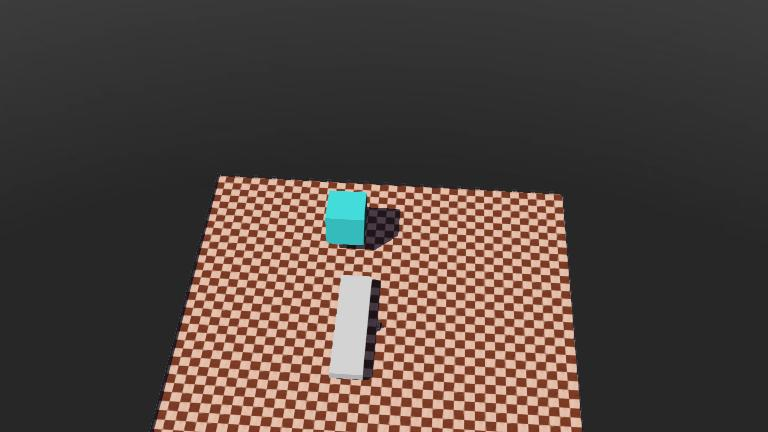
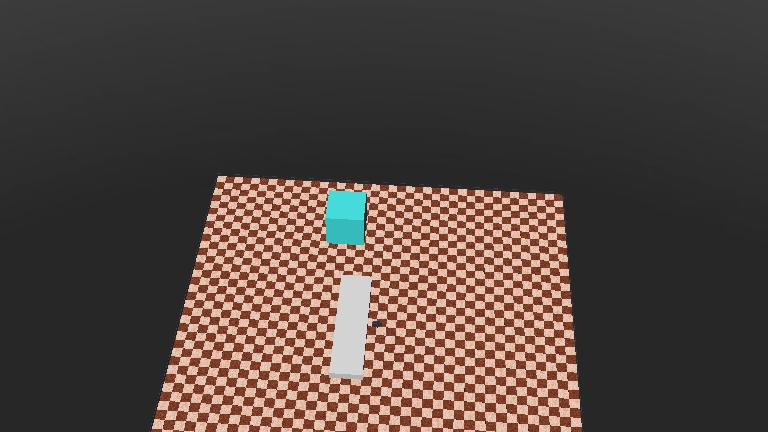
fix

Changed region(s): [[0.1875, 0.3912, 0.75, 1.0]]

diff --git a/controllers/my_controller_version_2/my_controller_version_2.py b/controllers/my_controller_version_2/my_controller_version_2.py
@@ -1,14 +1,66 @@
 import cv2
+import zmq
 import numpy as np
+import time
+import threading
+import pickle
+import queue
 import traceback
 from loguru import logger
-from controller import Robot
+from controller import Robot, Camera, Lidar, Accelerometer, Gyro
+from dataclasses import dataclass
+
+OPENCV_TITLE = "Camera Frame"
+TIMESTEP = None
+
+ZMQ_ADDRESS = "tcp://*:5555"    # 发布端地址
+QUEUE_SIZE = 100                # 队列深度，防止订阅端消费慢时内存膨胀
+
+DATA_QUEUE = queue.Queue(maxsize=QUEUE_SIZE)
+
+VISUALIZATION = False
+
+
+@dataclass
+class sersor_object:
+    robot: Robot
+    camera: Camera
+    lidar: Lidar
+    imu_accel: Accelerometer
+    imu_gyro: Gyro
+
+
+def enqueue(topic: bytes, data: dict):
+    '''非阻塞放入队列。队列满时自动丢弃最旧的一帧，保证仿真绝不卡顿'''
+    payload = pickle.dumps(data, protocol=pickle.HIGHEST_PROTOCOL)
+    try:
+        DATA_QUEUE.put_nowait((topic, payload))
+    except queue.Full:
+        # 队列满：丢弃最旧的一帧，再放入最新的（始终保持最新数据）
+        try:
+            DATA_QUEUE.get_nowait()
+            DATA_QUEUE.put_nowait((topic, payload))
+        except:
+            pass
+
+
+def sender_thread_func(socket: zmq.SyncSocket) -> None:
+    while True:
+        topic, payload = DATA_QUEUE.get()
+        socket.send_multipart([topic, payload])
 
 
 def main():
+    global TIMESTEP
+    # zmq init
+    context = zmq.Context()
+    socket = context.socket(zmq.PUB)
+    socket.bind(ZMQ_ADDRESS)
+
+    # robot init
     robot = Robot()
-    timestep = int(robot.getBasicTimeStep())
-    logger.debug(f"控制器初始化完成，当前时间戳为={timestep}ms")
+    TIMESTEP = int(robot.getBasicTimeStep())
+    logger.debug(f"控制器初始化完成，当前时间戳为={TIMESTEP}ms")
 
     camera = robot.getCamera("MV-CS016-10UC-V5")
     lidar = robot.getLidar("LivoxMid360")
@@ -19,45 +71,82 @@ def main():
         return
     logger.debug("设备获取完成")
 
-    camera.enable(timestep)
-    lidar.enable(timestep)
-    imu_accel.enable(timestep)
-    imu_gyro.enable(timestep)
-    if robot.step(timestep) == -1:
+    camera.enable(TIMESTEP)
+    lidar.enable(TIMESTEP)
+    imu_accel.enable(TIMESTEP)
+    imu_gyro.enable(TIMESTEP)
+    if robot.step(TIMESTEP) == -1:
         logger.warning("仿真已停止，退出")
         return
 
-    title = "Camera Frame"
-    cv2.namedWindow(title, cv2.WINDOW_NORMAL)
-    cv2.resizeWindow(title, camera.getWidth(), camera.getHeight())
+    cam_h = camera.getHeight()
+    cam_w = camera.getWidth()
+
+    # opencv init
+    if VISUALIZATION:
+        cv2.namedWindow(OPENCV_TITLE, cv2.WINDOW_NORMAL)
+        cv2.resizeWindow(OPENCV_TITLE, cam_w, cam_h)
+
+    # 解决 PUB-SUB "慢连接" 问题：给订阅端留出 connect 时间
+    logger.debug(f"发布端已绑定 {ZMQ_ADDRESS}，等待 1 秒让订阅端连接...")
+    time.sleep(1)
+
+    # 开始
+    sender_thread = threading.Thread(target=sender_thread_func, args=(socket,), daemon=True)
+    sender_thread.start()
 
     try:
-        while robot.step(timestep) != -1:
+        while robot.step(TIMESTEP) != -1:
             frame = camera.getImage()
             if frame is not None:
-                frame_array = np.frombuffer(frame, dtype=np.uint8).reshape((camera.getHeight(), camera.getWidth(), 4))
+                frame_array = np.frombuffer(frame, dtype=np.uint8).reshape((cam_h, cam_w, 4))
                 frame_bgr = cv2.cvtColor(frame_array, cv2.COLOR_BGRA2BGR)
-                cv2.imshow(title, frame_bgr)
-                key = cv2.waitKey(1) & 0xFF
-                if key == ord('q') or key == 27:
-                    logger.info("用户要求退出")
-                    break
+                if VISUALIZATION:
+                    cv2.imshow(OPENCV_TITLE, frame_bgr)
+                    key = cv2.waitKey(1) & 0xFF
+                    if key == ord('q') or key == 27:
+                        logger.info("用户要求退出")
+                        break
+
+                enqueue(b"camera", {
+                    "timestamp": robot.getTime(),
+                    "data": frame_bgr,
+                    "encoding": "bgr8"
+                })
             ranges = lidar.getRangeImage()
             if ranges is not None:
-                logger.debug(f"ranges 是 {ranges}")
+                if VISUALIZATION:
+                    logger.debug(f"ranges 是 {ranges}")
+                enqueue(b"lidar", {
+                    "timestamp": robot.getTime(),
+                    "data": np.array(ranges, dtype=np.float32),
+                })
+
             accel = imu_accel.getValues()
             if accel is not None:
-                logger.debug(f"accel 是 {accel}")
-            gyro  = imu_gyro.getValues()
+                if VISUALIZATION:
+                    logger.debug(f"accel 是 {accel}")
+                enqueue(b"accel", {
+                    "timestamp": robot.getTime(),
+                    "data": np.array(accel, dtype=np.float32),
+                })
+
+            gyro = imu_gyro.getValues()
             if gyro is not None:
-                logger.debug(f"gyro 是 {gyro}")
+                if VISUALIZATION:
+                    logger.debug(f"gyro 是 {gyro}")
+                enqueue(b"gyro", {
+                    "timestamp": robot.getTime(),
+                    "data": np.array(gyro, dtype=np.float32),
+                })
     except KeyboardInterrupt:
         logger.info("用户要求退出")
-    except Exception as e:
-        logger.error(f"FATAL: {e}")
+    except Exception:
         traceback.print_exc()
     finally:
         cv2.destroyAllWindows()
+        socket.close()
+        context.term()
 
 
 if __name__ == "__main__":

diff --git a/controllers/my_controller_version_2/receive_test.py b/controllers/my_controller_version_2/receive_test.py
@@ -1,0 +1,45 @@
+import zmq
+import pickle
+import numpy as np
+import cv2
+from loguru import logger
+
+context = zmq.Context()
+socket = context.socket(zmq.SUB)
+socket.connect("tcp://localhost:5555")
+
+# 订阅所有主题；也可单独订阅 b"lidar"、b"imu" 等
+socket.setsockopt(zmq.SUBSCRIBE, b"")
+
+logger.info("订阅端已连接，等待 Webots 数据...")
+
+try:
+    while True:
+        topic, payload = socket.recv_multipart()
+        data = pickle.loads(payload)
+        ts = data["timestamp"]
+
+        if topic == b"camera":
+            img: cv2.typing.MatLike = data["data"]
+            logger.debug(f"[camera] ts={ts:.3f} shape={img.shape}")
+            cv2.imshow("Received", img)
+            key = cv2.waitKey(1) & 0xFF
+            if key == ord('q') or key == 27:
+                logger.info("用户要求退出")
+                break
+
+        elif topic == b"lidar":
+            points = data["data"]
+            logger.debug(f"[lidar]  ts={ts:.3f} points={len(points)} min={points.min():.2f} max={points.max():.2f}")
+
+        elif topic == b"accel":
+            logger.debug(f"[accel]  ts={ts:.3f} data={data['data']}")
+
+        elif topic == b"gyro":
+            logger.debug(f"[gyro]   ts={ts:.3f} data={data['data']}")
+
+except KeyboardInterrupt:
+    logger.warning("\n关闭订阅端")
+finally:
+    socket.close()
+    context.term()

diff --git a/controllers/my_controller/my_controller.py b/controllers/my_controller/my_controller.py
@@ -7,7 +7,7 @@ import time as time_module
 import numpy as np
 import cv2
 import rerun as rr
-from controller import Robot # type: ignore
+from controller import Robot
 
 
 # ============================================================

diff --git a/doc/如何将webots注册到当前的虚拟环境中.md b/doc/如何将webots注册到当前的虚拟环境中.md
@@ -1,61 +1,14 @@
-在 Windows 上，Webots 的 Python API（controller、vehicle 等）并非通过 PyPI 分发，而是随软件安装在本地目录中。要将其"注册"到 uv 管理的虚拟环境，最可靠的方式是借助 .pth 文件把 Webots 的 Python 库路径注入虚拟环境的 sys.path，同时解决 Windows 下 DLL 加载的依赖问题。
-1. 确认 Webots Python 库路径
-Webots 的 Python 控制器库通常位于安装目录下的版本相关子目录中，例如：
-Text
+在.venv\Lib\site-packages\w̲e̲b̲o̲t̲s̲_controller.pth中写入
 
-C:\Users\<用户名>\AppData\Local\Programs\Webots\lib\controller\python311
+```
+C:\Program Files\Webots\lib\controller\python3
+```
 
-或（若安装在系统目录）：
-Text
+在.venv\Lib\site-packages\sitecustomize.py中写入
 
-C:\Program Files\Webots\lib\controller\python311
-
-注意：路径中的 python311 需与你 uv 虚拟环境的 Python 版本严格匹配（如 3.11 对应 python311，3.10 对应 python310）。
-2. 创建 .pth 文件注入路径
-uv 的虚拟环境 site-packages 目录通常位于项目根目录的 .venv\Lib\site-packages 下。你可以直接创建一个 .pth 文件指向 Webots 库：
-powershell
-
-# PowerShell 示例，假设 Webots 安装在用户目录，且 uv 虚拟环境已创建
-$WEBOTS_PYTHON = "$env:LOCALAPPDATA\Programs\Webots\lib\controller\python311"
-$SITE_PACKAGES = uv run python -c "import site; print(site.getsitepackages()[0])"
-
-# 创建 .pth 文件
-Set-Content -Path "$SITE_PACKAGES\webots_controller.pth" -Value $WEBOTS_PYTHON
-
-这等价于 uv 在处理 uv add --editable 时自动生成的 _<package>.pth 机制，只是这里我们手动为外部非标准包创建。
-3. 解决 Windows DLL 加载问题（关键）
-仅添加 .pth 文件在 Windows 上通常不够。Webots 的 _controller.pyd 等扩展模块依赖 Controller.dll 以及 MinGW 运行时 DLL，而 Windows 不会从 .pth 路径自动解析这些 DLL，直接 import controller 会报 ImportError: DLL load failed。
-推荐在虚拟环境的 site-packages 下创建一个 sitecustomize.py，在 Python 启动时自动注册 DLL 搜索路径：
-Python
-
-# 保存到 .venv\Lib\site-packages\sitecustomize.py
+``` python
 import os
-import sys
+WEBOTS_HOME = os.path.expandvars(r"C:\Program Files\Webots")
+```
 
-WEBOTS_HOME = os.path.expandvars(r"$LOCALAPPDATA\Programs\Webots")  # 按实际安装路径修改
-
-# Python 3.8+ 的 Windows DLL 目录机制
-if hasattr(os, 'add_dll_directory') and os.name == 'nt':
-    controller_dll = os.path.join(WEBOTS_HOME, "lib", "controller")
-    mingw_dll = os.path.join(WEBOTS_HOME, "msys64", "mingw64", "bin")
-    
-    for p in [controller_dll, mingw_dll]:
-        if os.path.exists(p):
-            os.add_dll_directory(p)
-
-# 同时确保环境变量中 WEBOTS_HOME 存在，供 Webots API 内部使用
-os.environ.setdefault("WEBOTS_HOME", WEBOTS_HOME)
-
-    替代方案：如果你不想动虚拟环境内部文件，也可以在每次运行前通过 PowerShell 设置 Path 环境变量：
-    powershell
-
-    $env:WEBOTS_HOME = "$env:LOCALAPPDATA\Programs\Webots"
-    $env:Path = "$env:WEBOTS_HOME\lib\controller;$env:WEBOTS_HOME\msys64\mingw64\bin;" + $env:Path
-    uv run python your_script.py
-
-4. 验证是否成功
-powershell
-
-uv run python -c "from controller import Robot; print('Webots controller imported successfully')"
-
-如果无报错，说明包已正确注册且 DLL 依赖已解决。
+注意其中提到的路径是你的webots的安装目录，这里是默认的